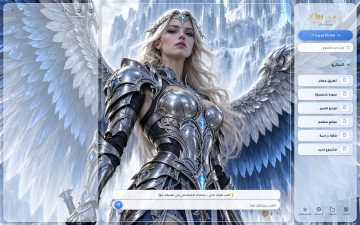
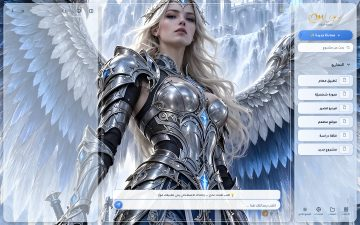
المشاهد الطوليّة الأربعة من الثيمات العشرة صارت عريضة ٢٥٦٠×١٤٤٠ فلا تطرى على الحاسوب (v-scene-wide)
المالك: «نضّف الثيمات العشرة وادمجهم». ملاك ودخان ومقهى وعصري كانت طوليّة يمدّها الحاسوب فتطرى؛
صار لكلّ واحدة شريط ١٦:٩ حول موضوعها موضَّح بـReal-ESRGAN محلّيًّا إلى ٢٥٦٠×١٤٤٠ على نسق بقيّة
المشاهد، والجوّال يأخذ وسطها. الوسم ?v=3 عليها، ثيمات.css?v=8، والمصغّرات أُعيد توليدها.

Claude-Session: https://claude.ai/code/session_01CLs5HyJhWo1vFXcHjHdskA

diff --git a/css/ثيمات.css b/css/ثيمات.css
@@ -309,7 +309,7 @@ html.skin-tactical{
 }
 /* ملاك الجليد: أبيض وأزرق ثلجيّ */
 html.skin-angel{
-  --th-scheme:light; --th-page:#c9d8ea; --th-scene:url("../assets/%D8%AB%D9%8A%D9%85%D8%A7%D8%AA/%D9%85%D9%84%D8%A7%D9%83/%D9%85%D8%B4%D9%87%D8%AF.jpg?v=2"); --th-pos:50% 18%; --th-pos-m:50% 30%;
+  --th-scheme:light; --th-page:#c9d8ea; --th-scene:url("../assets/%D8%AB%D9%8A%D9%85%D8%A7%D8%AA/%D9%85%D9%84%D8%A7%D9%83/%D9%85%D8%B4%D9%87%D8%AF.jpg?v=3"); --th-pos:50% 50%; --th-pos-m:50% 50%;
   --th-ink:#14243a; --th-muted:#3e5572; --th-over:#0f1e33; --th-over-muted:#2b3f5c; --th-over-shadow:0 1px 2px rgba(255,255,255,.75); --th-over-drop:drop-shadow(0 1px 1px rgba(255,255,255,.8));
   --th-gold:#2f6fcf; --th-line:rgba(255,255,255,.8); --th-line2:rgba(255,255,255,.38); --th-glow:rgba(47,111,207,.3);
   --th-dlg:#f3f7fc; --th-dlg2:#e2ebf7;
@@ -361,7 +361,7 @@ html.skin-rally{
 }
 /* دخان أزرق: ليل كحليّ وأزرق متوهّج (البوغاتي) */
 html.skin-smoke{
-  --th-page:#071a33; --th-scene:url("../assets/%D8%AB%D9%8A%D9%85%D8%A7%D8%AA/%D8%AF%D8%AE%D8%A7%D9%86/%D9%85%D8%B4%D9%87%D8%AF.jpg?v=2"); --th-pos:50% 45%; --th-pos-m:50% 50%; --th-veil:rgba(0,10,30,.14);
+  --th-page:#071a33; --th-scene:url("../assets/%D8%AB%D9%8A%D9%85%D8%A7%D8%AA/%D8%AF%D8%AE%D8%A7%D9%86/%D9%85%D8%B4%D9%87%D8%AF.jpg?v=3"); --th-pos:50% 50%; --th-pos-m:50% 50%; --th-veil:rgba(0,10,30,.14);
   --th-ink:#f4f1ee; --th-muted:#cfc8c0; --th-over:#fff; --th-over-shadow:0 1px 3px rgba(0,0,0,.75); --th-over-drop:drop-shadow(0 1px 2px rgba(0,0,0,.7));
   --th-gold:#4fb8ff; --th-line:rgba(79,184,255,.6); --th-line2:rgba(79,184,255,.3); --th-glow:rgba(79,184,255,.3);
   --th-dlg:#0b1a30; --th-dlg2:#12264a;
@@ -387,7 +387,7 @@ html.skin-library{
 }
 /* مقهى: بيج دافئ وذهبيّ (قهوة ودفتر) */
 html.skin-cafe{
-  --th-scheme:light; --th-page:#e8d8c2; --th-scene:url("../assets/%D8%AB%D9%8A%D9%85%D8%A7%D8%AA/%D9%85%D9%82%D9%87%D9%89/%D9%85%D8%B4%D9%87%D8%AF.jpg?v=2"); --th-pos:50% 40%; --th-pos-m:50% 45%;
+  --th-scheme:light; --th-page:#e8d8c2; --th-scene:url("../assets/%D8%AB%D9%8A%D9%85%D8%A7%D8%AA/%D9%85%D9%82%D9%87%D9%89/%D9%85%D8%B4%D9%87%D8%AF.jpg?v=3"); --th-pos:50% 50%; --th-pos-m:45% 50%;
   --th-ink:#4a3620; --th-muted:#7a6448; --th-over:#3a2a16; --th-over-muted:#5a4630; --th-over-shadow:0 1px 2px rgba(255,255,255,.75); --th-over-drop:drop-shadow(0 1px 1px rgba(255,255,255,.8));
   --th-gold:#b8863c; --th-line:rgba(255,255,255,.8); --th-line2:rgba(255,255,255,.38); --th-glow:rgba(184,134,60,.3);
   --th-dlg:#fbf5ec; --th-dlg2:#f1e6d6;
@@ -413,7 +413,7 @@ html.skin-workshop{
 }
 /* بيت عصريّ: رماديّ دافئ وخشب وبرتقاليّ (الكرسيّ والزجاج) */
 html.skin-modern{
-  --th-scheme:light; --th-page:#d9d2c6; --th-scene:url("../assets/%D8%AB%D9%8A%D9%85%D8%A7%D8%AA/%D8%B9%D8%B5%D8%B1%D9%8A/%D9%85%D8%B4%D9%87%D8%AF.jpg?v=2"); --th-pos:50% 60%; --th-pos-m:50% 55%;
+  --th-scheme:light; --th-page:#d9d2c6; --th-scene:url("../assets/%D8%AB%D9%8A%D9%85%D8%A7%D8%AA/%D8%B9%D8%B5%D8%B1%D9%8A/%D9%85%D8%B4%D9%87%D8%AF.jpg?v=3"); --th-pos:50% 50%; --th-pos-m:30% 50%;
   --th-ink:#2f2a24; --th-muted:#6a6056; --th-over:#26221d; --th-over-muted:#4a433b; --th-over-shadow:0 1px 2px rgba(255,255,255,.75); --th-over-drop:drop-shadow(0 1px 1px rgba(255,255,255,.8));
   --th-gold:#d9542e; --th-line:rgba(255,255,255,.8); --th-line2:rgba(255,255,255,.38); --th-glow:rgba(217,84,46,.3);
   --th-dlg:#faf7f2; --th-dlg2:#efe9e0;

diff --git a/index.html b/index.html
@@ -209,7 +209,7 @@ window.__omranWhenSeen = (function () {
 <link rel="stylesheet" href="css/خلفيات.css?v=3">
 <link rel="stylesheet" href="css/إطارات.css?v=3"><!-- v-frame-design: التصميم الجديد للكمبيوتر -->
 <link rel="stylesheet" href="css/ثيم-خشبي.css?v=3"><!-- v-skin-wood: كلّه تحت html.skin-wood -->
-<link rel="stylesheet" href="css/ثيمات.css?v=7"><!-- v-themes: الثيمات الثلاثة عشر، كلّها تحت html.skin -->
+<link rel="stylesheet" href="css/ثيمات.css?v=8"><!-- v-themes: الثيمات الثلاثة عشر، كلّها تحت html.skin -->
 <script>
 /* v434 — الوضع الفاتح/الداكن. الذهبي ثابت في الاثنين. */
 (function(){var K='aiapp_mode';

diff --git a/knowledge/DECISIONS.md b/knowledge/DECISIONS.md
@@ -1,4 +1,9 @@
 # سجلّ القرارات
+## ٩ أكتوبر ٢٠٢٦ — v-scene-wide: المشاهد الطوليّة الأربعة من الثيمات العشرة صارت عريضة ٢٥٦٠×١٤٤٠ فلا تطرى على الحاسوب
+- **العرض:** المالك بعد دمج #937: «أوّل شي نضّف الثيمات العشرة وادمجهم». الأربعة الطوليّة (ملاك ١٤٢٩ عرضًا، دخان ١٤٣٨، مقهى ١٨٨٠، عصري ١٣٤٤) يمدّها الحاسوب على عرض الشاشة فتطرى — السبب نفسه الذي شكاه في الخلفيّات («غير واضحة فقط في الكمبيوتر»).
+- **القرار:** لكلّ واحدة شريط ١٦:٩ حول موضوعها (الملاك حول الوجه والجناحين ٣٠٪ من الارتفاع، السيارة ٥٢٪، الفتاة ٤٥٪، الكرسيّ ٧٠٪) موضَّح بـReal-ESRGAN محلّيًّا إلى ٢٥٦٠×١٤٤٠ (٣٤٨–٧٣٧ ك.ب) — صارت على نسق بقيّة المشاهد العريضة، والجوّال يأخذ وسطها (`--th-pos-m`). الوسم `?v=3` على الأربعة، و`ثيمات.css?v=8`، والمصغّرات الأربعة أُعيد توليدها. سباق مطر ودخان أزرق أصلاهما ٤٣٢ و٤١٥ بكسل — التوضيح يحدّهما ولا يخترع تفاصيل (المالك: «أهمّ شي السيارات، ادمج»).
+- **الاختبار:** `themes` ٣: وسم الإصدار على المشهد أيّ رقم (`?v=\d+`)، والعرض ٢٠٠٠–٢٥٦٠ كما هو. لقطات حاسوب وجوّال للأربعة: الوجه والجناحان والسيارة والفتاة والكرسيّ كلّها ظاهرة، بلا أخطاء صفحة. `npm run ci` يمرّ كاملًا.
+
 ## ٩ أكتوبر ٢٠٢٦ — v-clean-ui: واجهة رسميّة بلا إيموجي في التطبيق كلّه (أمر المالك «كلّ شيء نظيف… وانشر»)
 - **العرض:** بعد تنظيف نافذة الفيديو قال المالك: «كمّلهم كلّهم مرّة وحدة»، وكرّر أنّه يريد «شيئًا رسميًّا» بلا إيموجي.
 - **القرار:** جزء جديد `js/app-36-clean-ui.js` ينظّف وقت العرض (مرّة عند التحميل ثمّ `MutationObserver` مُجمَّع كلّ ٤٠مل ثانية) بدل تحرير آلاف النصوص في ١٤ قاموسًا
